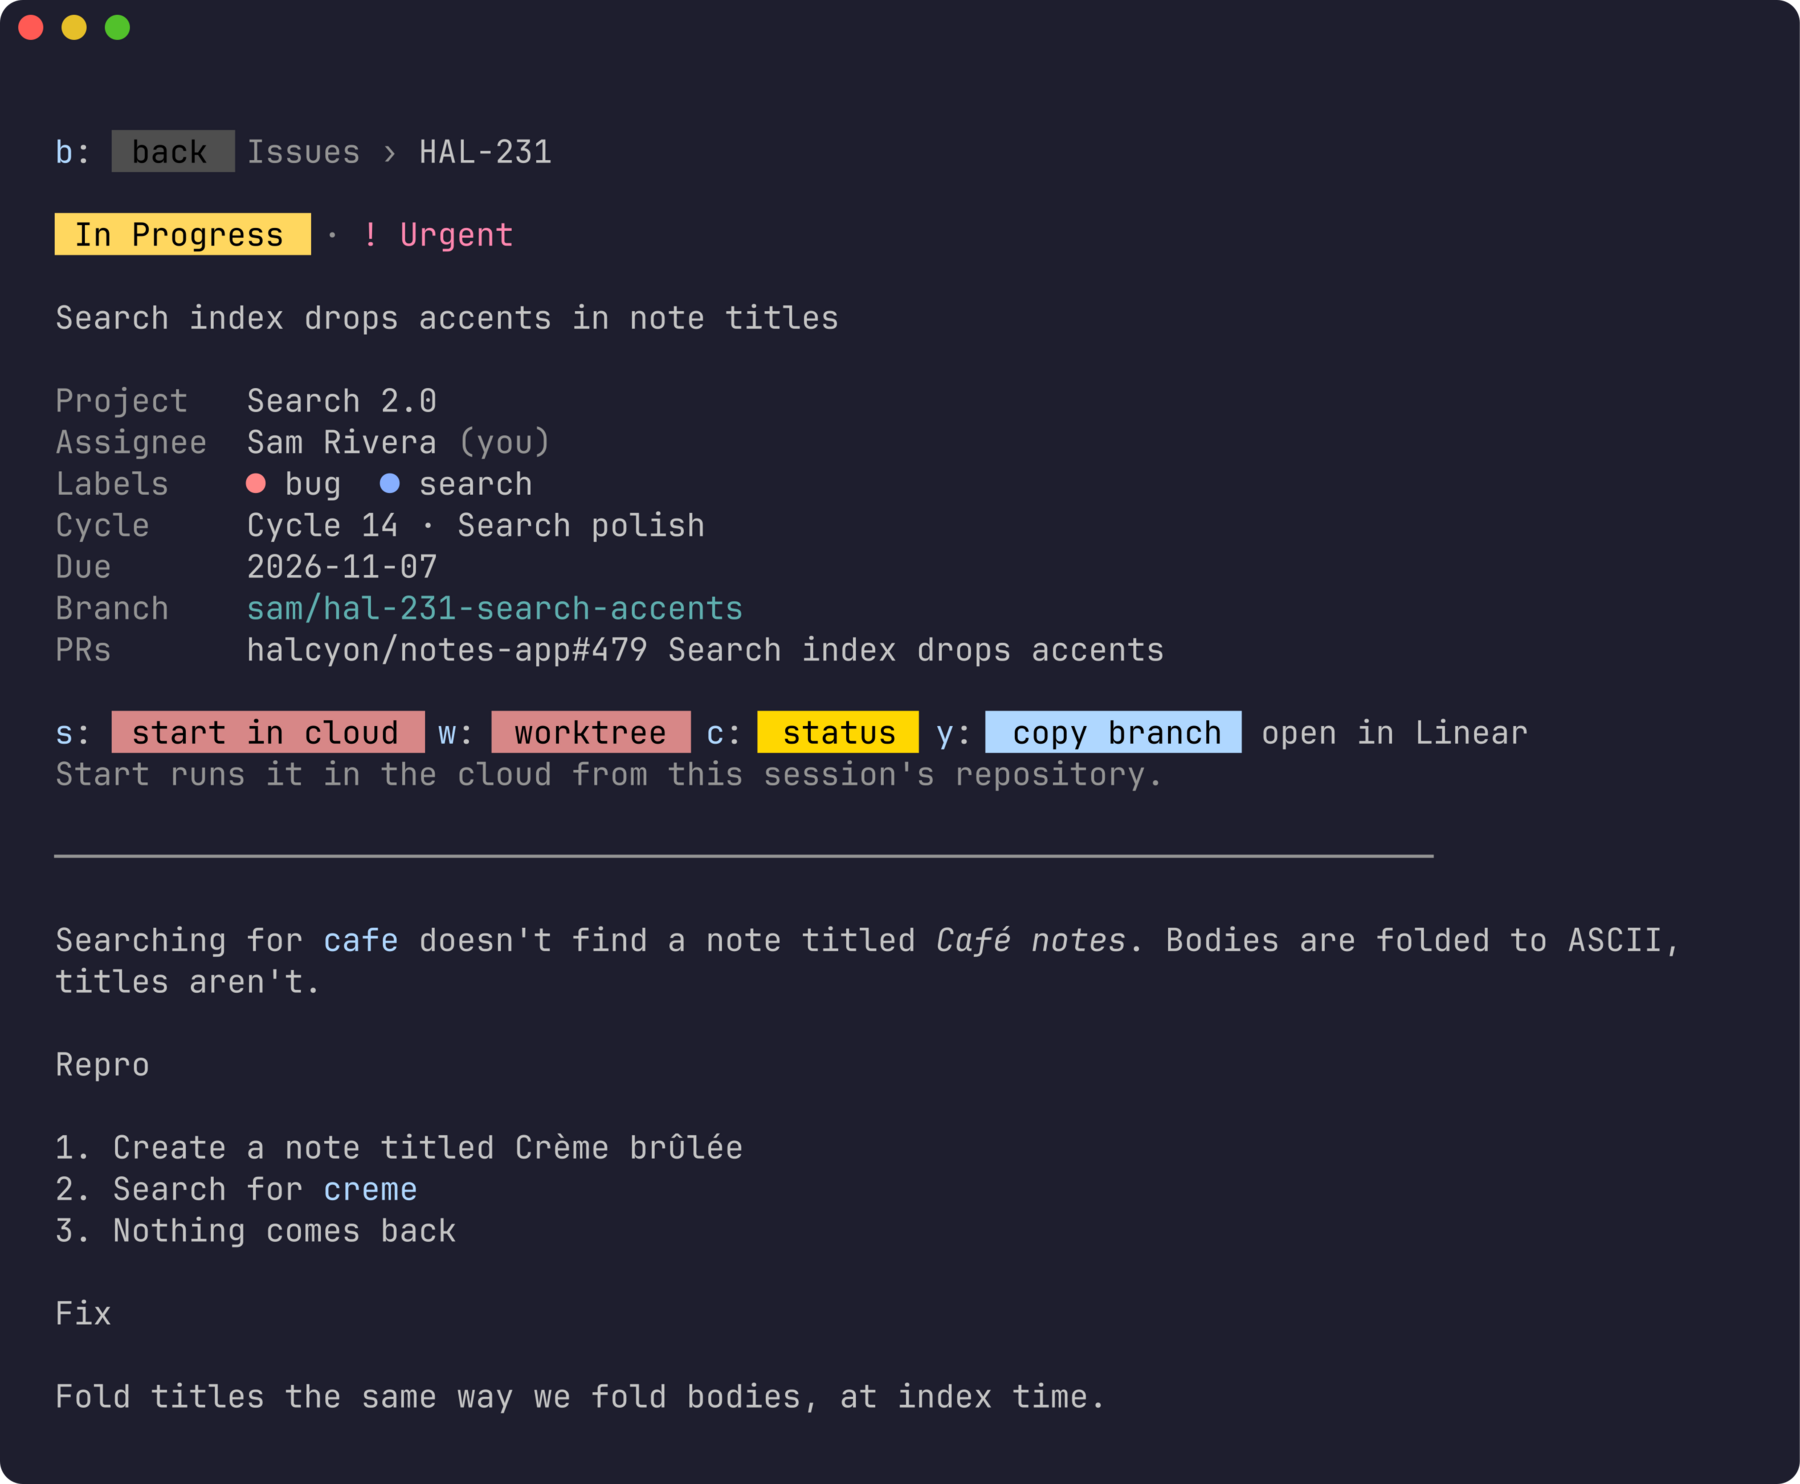
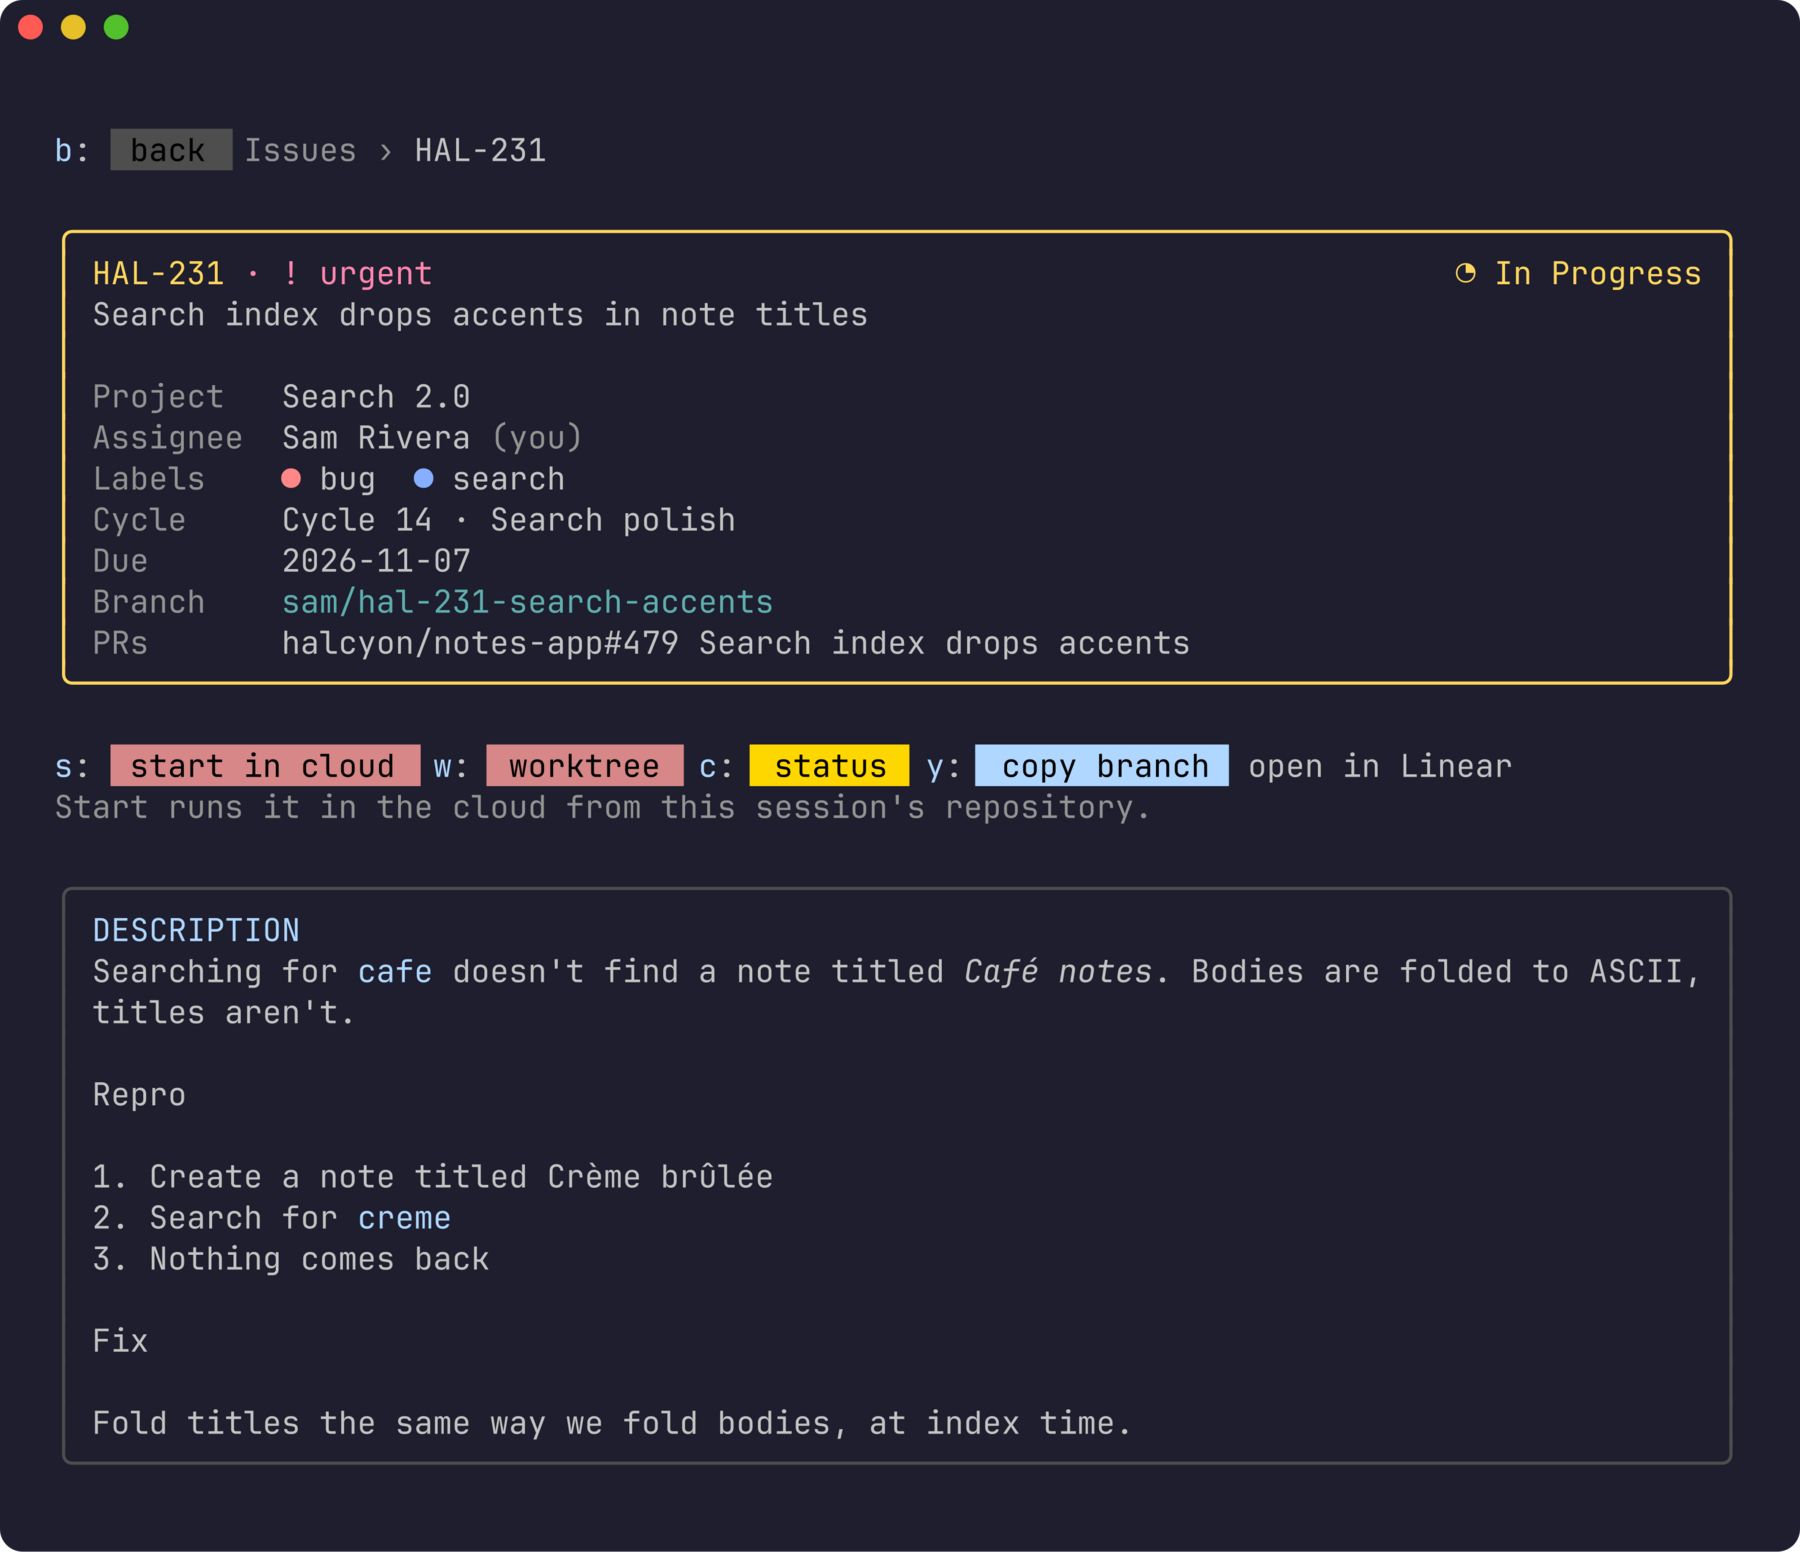
feat: frames, project gauges and a running line
An issue's screen in frames: the issue in its status's colour, the status
picker, the description. Projects carry a progress gauge in their state's
colour, and a line under the tabs runs while Linear is asked.

Claude-Session: https://claude.ai/code/session_01URUKFE9qJZHANmTN6REeXo

Changed region(s): [[0.0311, 0.062, 0.9644, 0.527], [0.0311, 0.558, 0.9333, 0.9609], [0.9956, 0.0, 1.0, 1.0]]

diff --git a/hooks/register.tsx b/hooks/register.tsx
@@ -854,6 +854,8 @@ export const register: Register = on => {
     const { Box, Text, Button, Markdown, Link } = table
     // The phone has no text field: no filter or pasting there.
     const Input = 'Input' in table ? table.Input : null
+    // The surface's own animated regions, where it has them.
+    const Client = 'Client' in table ? (table as any).Client : null
     const v = await read($, view)
     const key = await read($, workspace)
     const spaces = await read($, workspaces)
@@ -973,14 +975,18 @@ export const register: Register = on => {
             <Text dimColor>{crumb}</Text>
             <Text weight="bold">{i.id}</Text>
           </Box>
-          <Box flexDirection="row" gap={1}>
-            <Text backgroundColor={stateColor} color="inverseText" weight="semibold">{` ${i.status} `}</Text>
-            {i.priority === 1 && <Text dimColor>·</Text>}
-            {i.priority === 1 && <Text color="error" weight="semibold">! Urgent</Text>}
-            {priority && <Text dimColor>·</Text>}
-            {priority && <Text>{priority}</Text>}
+          {/* The issue, framed in its status's colour, as Linear colours it. */}
+          <Box flexDirection="column" borderStyle="round" borderColor={stateColor} paddingX={1}>
+          <Box flexDirection="row" justifyContent="space-between">
+            <Text wrap="truncate-end">
+              <Text color={stateColor} weight="bold">{i.id}</Text>
+              {i.priority === 1 && <Text color="error" weight="bold"> · ! urgent</Text>}
+              {priority && <Text dimColor> · {priority.toLowerCase()}</Text>}
+            </Text>
+            <Box flexShrink={0}><Text color={stateColor}>{s.mark} {i.status}</Text></Box>
           </Box>
           <Text weight="bold" wrap="wrap">{i.title}</Text>
+          <Text> </Text>
           <Box flexDirection="column">
             {field('Project', i.project)}
             {d && field('Assignee', d.assignee ? (
@@ -1014,10 +1020,11 @@ export const register: Register = on => {
               </Box>
             ))}
           </Box>
+          </Box>
           {noticeRow}
           {v.picking ? (
-            <Box flexDirection="column">
-              <Text dimColor>Move {i.id} to:</Text>
+            <Box flexDirection="column" borderStyle="round" borderColor="warning" paddingX={1}>
+              <Text color="warning" weight="bold">STATUS <Text dimColor>· move {i.id} to</Text></Text>
               {!options && <Text dimColor>Loading statuses…</Text>}
               {options?.map((st, n) => {
                 const k = look(st.type, st.name)
@@ -1044,8 +1051,10 @@ export const register: Register = on => {
               </Text>
             </>
           )}
-          <Text dimColor>{'─'.repeat(Math.max(10, Math.min(width - 2, 72)))}</Text>
-          {d ? (d.description.trim() ? <Markdown key={`md-${i.id}`} text={tidy(d.description)} /> : <Text dimColor>No description.</Text>) : <Text dimColor>Loading…</Text>}
+          <Box flexDirection="column" borderStyle="round" borderColor="subtle" paddingX={1}>
+            <Text color="suggestion" weight="bold">DESCRIPTION</Text>
+            {d ? (d.description.trim() ? <Markdown key={`md-${i.id}`} text={tidy(d.description)} /> : <Text dimColor>No description.</Text>) : <Text dimColor>Loading…</Text>}
+          </Box>
         </Box>
       )
     }
@@ -1069,7 +1078,7 @@ export const register: Register = on => {
     // The header, the filter, the gaps and the workspaces' row take about
     // 12 lines;
     // a note or an error two more, a project's header one.
-    room = Math.max(5, (e.props.scroll?.bodyRows ?? 24) - 12 - (note ? 2 : 0) - (error ? 2 : 0) - (sc ? 1 : 0))
+    room = Math.max(5, (e.props.scroll?.bodyRows ?? 24) - 13 - (note ? 2 : 0) - (error ? 2 : 0) - (sc ? 1 : 0))
     // Centred on the keyboard's row, so a held arrow finds rows drawn ahead.
     const selLine = rows[sel] ? listed.indexOf(rows[sel]!) : 0
     const t = Math.max(0, Math.min(selLine - Math.floor(room / 2), listed.length - room))
@@ -1136,6 +1145,8 @@ export const register: Register = on => {
             <Text dimColor>{isLoading ? ' loading…' : ' '}</Text>
           </Box>
         )}
+        {/* Under the tabs, a rule that runs while Linear is being asked. */}
+        {Client && <Client key="list-rail" module="./rail.tsx" props={{ active: isLoading, color: 'suggestion', width }} />}
         {Input && (
           <Input
             key="filter"
@@ -1174,11 +1185,14 @@ export const register: Register = on => {
                 const p = l.project
                 const s = look(p.state === 'planned' ? 'unstarted' : p.state, p.state)
                 const extra = [`${Math.round(p.progress * 100)}%`, p.lead, p.targetDate].filter(Boolean).join(' · ')
+                // Its progress as a gauge, in its state's colour.
+                const filled = Math.round(p.progress * 6)
                 return (
                   <Button key={rowKey(l)} plain onPress={() => openProject($, key, p)}>
                     <Text color={s.color}>{s.mark}</Text>
-                    <Text> {cut(p.name, Math.max(12, width - extra.length - 6))}</Text>
-                    <Text dimColor> {extra}</Text>
+                    <Text> {cut(p.name, Math.max(12, width - extra.length - 14))} </Text>
+                    <Text color={s.color}>{'▰'.repeat(filled)}</Text>
+                    <Text dimColor>{'▱'.repeat(6 - filled)} {extra}</Text>
                   </Button>
                 )
               }

diff --git a/hooks/rail.tsx b/hooks/rail.tsx
@@ -1,0 +1,64 @@
+// A rule across the pane that comes alive while something is under way (a
+// list loading, checks running): a bright dot runs along it, trailing a
+// fainter one. At rest it's a plain dim line. It ticks on the surface's own
+// frame clock, so only this line redraws, never the pane.
+import type { ClientModule } from 'claude-code'
+
+type Props = { active: boolean; color: string; width: number }
+type Ref = { phase: number; active: boolean }
+type State = { ref: Ref }
+
+const STEP_MS = 90
+// One dot per this many cells.
+const GAP = 28
+
+const Rail: ClientModule<Props, State> = (props, surface) => {
+  const { Box, Text } = surface.elements
+  const ref = surface.state?.ref ?? { phase: 0, active: props.active }
+  ref.active = props.active
+  if (surface.state === undefined) {
+    surface.setState({ ref })
+    surface.every(STEP_MS, () => {
+      if (ref.active) {
+        ref.phase += 1
+        surface.setState({ ref })
+      }
+    })
+  }
+  const width = Math.max(1, surface.columns || props.width)
+  if (!props.active) {
+    return (
+      <Box width={width} overflow="hidden">
+        <Text color="subtle" dimColor mono>{'─'.repeat(width)}</Text>
+      </Box>
+    )
+  }
+  // Runs of the same look share a Text: a handful of nodes a frame.
+  const lit = new Map<number, string>()
+  for (let base = 0; base < width + GAP; base += GAP) {
+    const head = (base + ref.phase) % (width + GAP)
+    if (head < width) lit.set(head, '●')
+    if (head - 1 >= 0 && head - 1 < width) lit.set(head - 1, '•')
+  }
+  const runs: { text: string; isLit: boolean }[] = []
+  for (let i = 0; i < width; i++) {
+    const glyph = lit.get(i)
+    const isLit = glyph !== undefined
+    const last = runs[runs.length - 1]
+    if (last && last.isLit === isLit) last.text += glyph ?? '─'
+    else runs.push({ text: glyph ?? '─', isLit })
+  }
+  return (
+    <Box width={width} overflow="hidden">
+      <Box flexShrink={0}>
+        {runs.map(r => (
+          <Text color={r.isLit ? props.color : 'subtle'} weight={r.isLit ? 'bold' : undefined} dimColor={!r.isLit || undefined} mono>
+            {r.text}
+          </Text>
+        ))}
+      </Box>
+    </Box>
+  )
+}
+
+export default Rail

diff --git a/tests/linear.test.tsx b/tests/linear.test.tsx
@@ -162,8 +162,8 @@ test('the list by status, an issue, and Start in the cloud', async ($, on) => {
   expect(await ui.find({ type: 'Text', text: /sam\/hal-231/ })).toBeDefined()
   // Laid out as herdr-linear's: the status a pill in Linear's colour, the
   // fields with who's you, the labels' own colours, the cycle, the description.
-  expect(((await ui.find({ type: 'Text', text: ' In Progress ' })) as any)?.props?.backgroundColor).toBe('#f2c94c')
-  expect(await ui.find({ type: 'Text', text: '! Urgent' })).toBeDefined()
+  expect(((await ui.find({ type: 'Text', text: '◔ In Progress' })) as any)?.props?.color).toBe('#f2c94c')
+  expect(await ui.find({ type: 'Text', text: ' · ! urgent' })).toBeDefined()
   expect(await ui.find({ type: 'Text', text: / \(you\)/ })).toBeDefined()
   expect(await ui.find({ type: 'Text', text: /Cycle 14 · Search polish/ })).toBeDefined()
   const dots = (await ui.findAll({ type: 'Text', text: '●' })) as any[]
